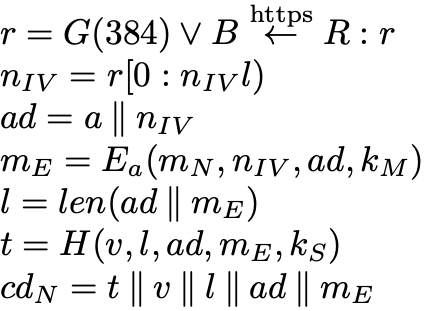
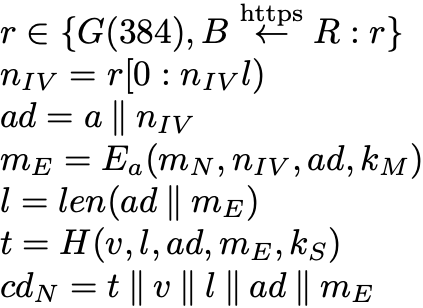
documentation updates, version change, and changelog update

diff --git a/src/app/help/faqs/faqs.component.ts b/src/app/help/faqs/faqs.component.ts
@@ -348,13 +348,13 @@ const ELEMENT_DATA: FAQElement[] = [
         </tr>
         <tr>
           <td class="tg-0pky">Last signed-in user name and user ID</td>
-          <td class="tg-0pky">Browser local storage, transmission below</td>
+          <td class="tg-0pky">Browser local storage, HTTPS transmission from server to browser</td>
           <td class="tg-0pky">Within the side panel that shows passkeys, click the "Sign Out" button, then click the
             "Sign in as a different user" button</td>
         </tr>
         <tr>
           <td class="tg-0pky">Currently signed-in user credential</td>
-          <td class="tg-0pky">Browser sessions storage, transmission below</td>
+          <td class="tg-0pky">Browser session storage, HTTPS transmission from server to browser</td>
           <td class="tg-0pky">Close the Quick Crypt tab in your browser or navigate to another website.
           Automatically flushed after 6 hours of inactivity</td>
         </tr>

diff --git a/src/app/help/overview/overview.component.html b/src/app/help/overview/overview.component.html
@@ -51,7 +51,7 @@
       <li>Uses the latest web security protocols (csp, cors, sri, hsts, xfo, etc.)</li>
       <li>Keep an <a href="https://developer.mozilla.org/en-US/observatory/analyze?host=quickcrypt.org"
           target="_blank">A+ rating from MDN Observatory</a></li>
-      <li>No advertisements or trackers</li>
+      <li>No advertisements, trackers, or cookies</li>
       <li>No personally identifiable information (PII) collected</li>
       <li><a href="https://github.com/bschick/qcrypt" target="_blank">Open source</a> for peer review of these goals
       </li>

diff --git a/src/assets-src/main.tex b/src/assets-src/main.tex
@@ -1,9 +1,8 @@
 \documentclass{article}
 \usepackage{graphicx} % Required for inserting images
 \usepackage[english]{babel}
-\usepackage[letterpaper,top=1cm,bottom=1cm,left=0cm,inner=0cm,right=1cm,marginparwidth=0cm]{geometry}
+\usepackage[letterpaper,top=1cm,bottom=1.5cm,left=0cm,inner=0cm,right=1cm,marginparwidth=0cm]{geometry}
 \usepackage{amsmath}
-\usepackage{graphicx}
 \usepackage[colorlinks=true, allcolors=blue]{hyperref}
 \setlength\parindent{0pt}
 %\setlength\parindent{20pt}
@@ -14,7 +13,7 @@
 \begin{tabular}{@{}p{2mm} l}
 $A$ & \textrm{ - Alice} \\
 $M$ & \textrm{ - Webauthn authenticator (passkey manager)} \\
-$B$ & \textrm{ - Browser with SubtleCrypto API and libsodium library} \\
+$B$ & \textrm{ - Browser with Session storage, SubtleCrypto API, and libsodium library} \\
 $S$ & \textrm{ - Quick Crypt server} \\
 $R$ & \textrm{ - https://www.random.org/cgi-bin/randbyte?nbytes=48} \\
 $D$ & \textrm{ - Insecure persistent storage system} \\
@@ -84,17 +83,17 @@ $err$ & \textrm{ - Error message and exit}\\
 \begin{tabular}{@{}p{2mm} l}
 \multicolumn{2}{@{}l}{$A\overset{\textrm{webauthn}}{\leftrightarrow} B,M \overset{\textrm{webauthn}}{\leftrightarrow} S$}\\
 \multicolumn{2}{@{}l}{$B\leftarrow S: u_c$}\\
-\multicolumn{2}{@{}l}{$A\rightarrow B: m,i,a,le$}\\
+\multicolumn{2}{@{}l}{$A\rightarrow B: m,i,le$}\\
 \multicolumn{2}{@{}l}{$v = 4$}\\
 \multicolumn{2}{@{}l}{$lp = 0$}\\
 \multicolumn{2}{@{}l}{$LOOP: B\textrm{ compute} $}\\
-&$A\rightarrow B: p,h $\\
-&$r = G(384)\lor B\overset{\textrm{https}}{\leftarrow} R: r$\\
+&$A\rightarrow B: p,h,a $\\
+&$r \in \{G(384), B\overset{\textrm{https}}{\leftarrow} R: r$\}\\
 &$n_S = r[0:128)$\\
 &$n_{IV} = r[128:128+n_{IV}l)$\\
 &$k_M = D_P(p \mathbin\Vert u_c,n_S,i)$\\
 &$k_S = D_H(u_c,n_S,kp_S)$\\
-&$cd = cd_0\mathbin\Vert  cd_N\mathbin\Vert ...$\\
+&$cd = cd_0\mathbin\Vert ... \mathbin\Vert cd_N$\\
 &$m = cd$\\
 &$lp = lp + 1$\\
 &$\textrm{goto LOOP if lp}<le$\\
@@ -121,7 +120,8 @@ $err$ & \textrm{ - Error message and exit}\\
 \underline{Block N Encryption by B}\\
 
 \begin{tabular}{@{}p{2mm} l}
-\multicolumn{2}{@{}l}{$r = G(384)\lor B\overset{\textrm{https}}{\leftarrow} R: r$}\\
+
+\multicolumn{2}{@{}l}{$r \in \{G(384), B\overset{\textrm{https}}{\leftarrow} R: r$\}}\\
 \multicolumn{2}{@{}l}{$n_{IV} = r[0:n_{IV}l)$}\\
 \multicolumn{2}{@{}l}{$ad = a \mathbin\Vert n_{IV}$}\\
 \multicolumn{2}{@{}l}{$m_{E} = E_a(m_N,n_{IV},ad,k_M)$}\\
@@ -142,10 +142,17 @@ ad \mathbin\Vert m_{E}$}\\
 
 \newpage
 
-\underline{Message Decryption by A}\\
+\underline{Message Retrieval by A}\\
 
 \begin{tabular}{@{}p{2mm} l}
 \multicolumn{2}{@{}l}{$A \leftarrow D: cd$}\\
+\end{tabular}
+
+\hfill \break
+
+\underline{Message Decryption by A}\\
+
+\begin{tabular}{@{}p{2mm} l}
 \multicolumn{2}{@{}l}{$A \overset{\textrm{webauthn}}{\leftrightarrow} B, M \overset{\textrm{webauthn}}{\leftrightarrow} S$}\\
 \multicolumn{2}{@{}l}{$B \leftarrow S: u_c$}\\
 \multicolumn{2}{@{}l}{$A \rightarrow B: cd$}\\

diff --git a/SECURITY.md b/SECURITY.md
@@ -1,0 +1,12 @@
+## Quick Crypt Security
+
+We take security seriously and welcome peer review of our open-source code and reporting of potential vulnerabilities. Quick Crypt also maintains a bug bounty program with Hacker One.
+
+### Reporting security issues
+
+Please use our [vulnerability disclosure program at Hacker One](https://hackerone.com/quickcrypt) to provide details and repro steps, and we will respond ASAP. The Hacker One submission protocol will help you submit a well-formed report and may receive a bounty payout. If you cannot use Hacker One, you may [open a ticket on githup](https://github.com/bschick/qcrypt/issues/new/choose) with details and repro steps.
+
+
+### Quick Crypt protocol details
+
+Please see the live Quick Crypt website for a [detailed summary of Quick Crypt's encryption and decryption protocol](https://quickcrypt.org/help/protocol)

diff --git a/CHANGELOG.md b/CHANGELOG.md
@@ -1,5 +1,14 @@
 # CHANGELOG.md
 
+## 4.2.2 (2025-06-08)
+
+Changes:
+
+  - small corrections to protocol description
+  - minor doc updates
+  - improved layout of encryption options
+  - package updates
+
 ## 4.2.1 (2025-01-12)
 
 Security:
